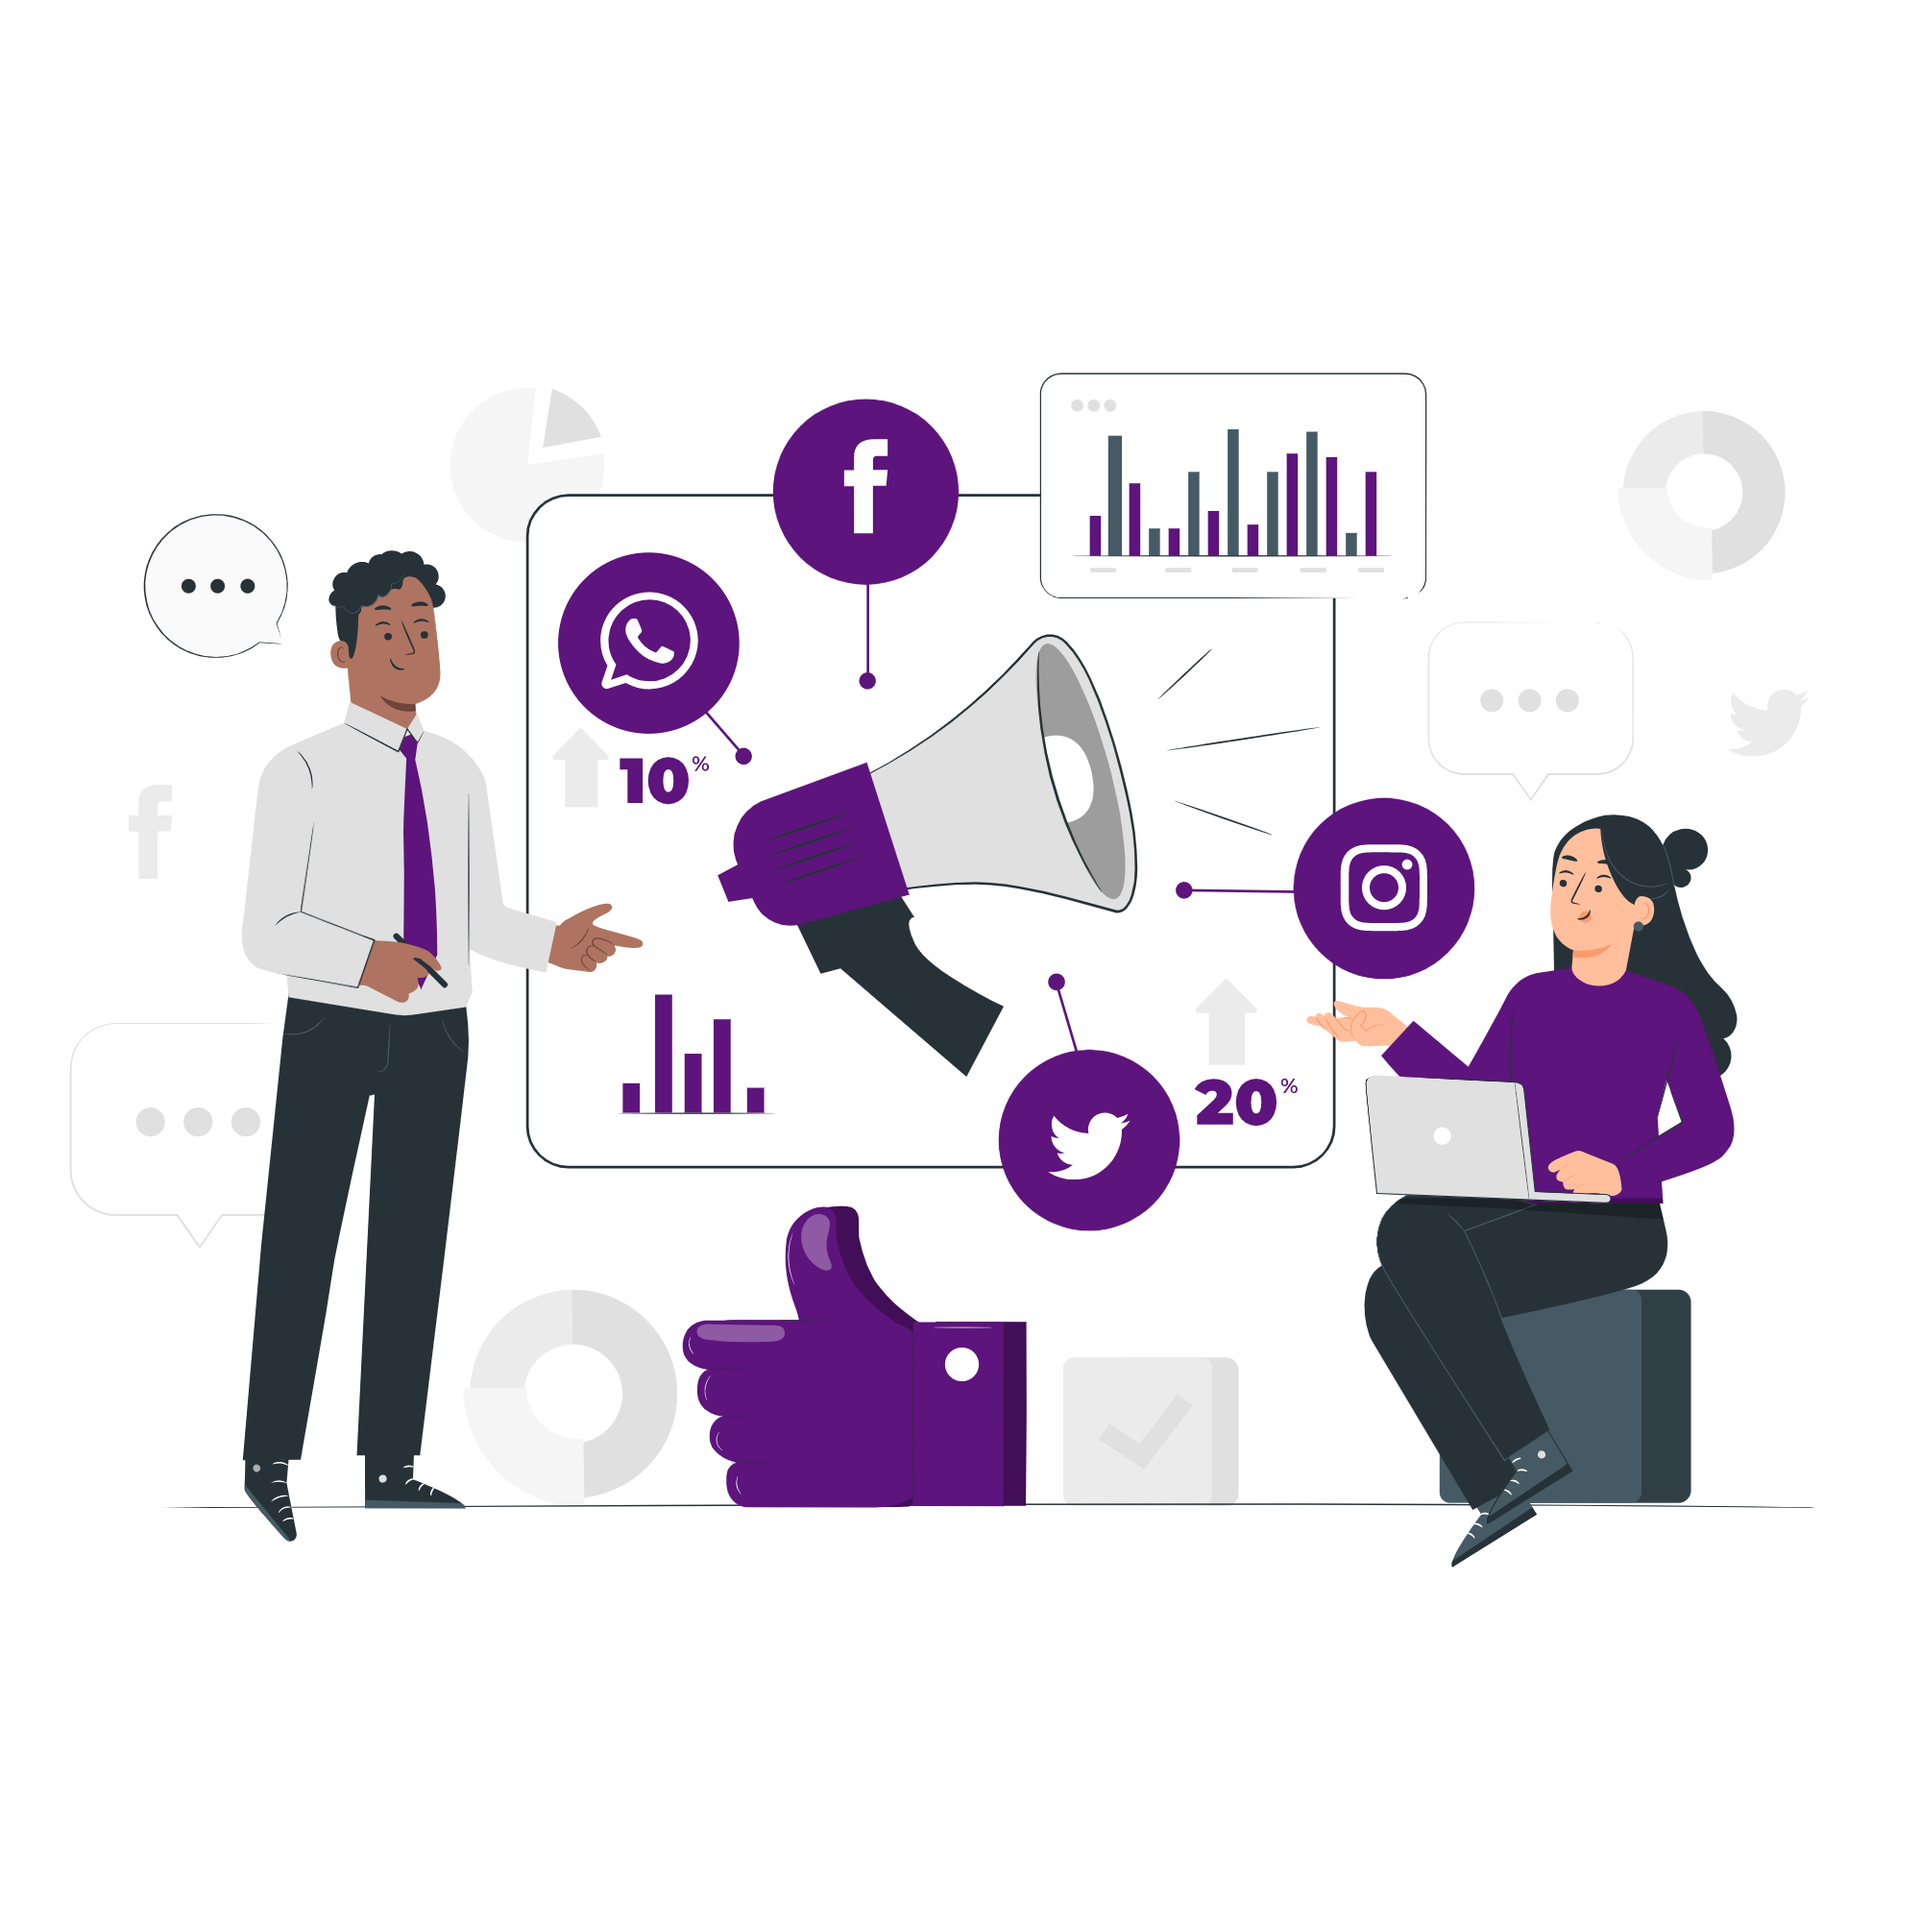
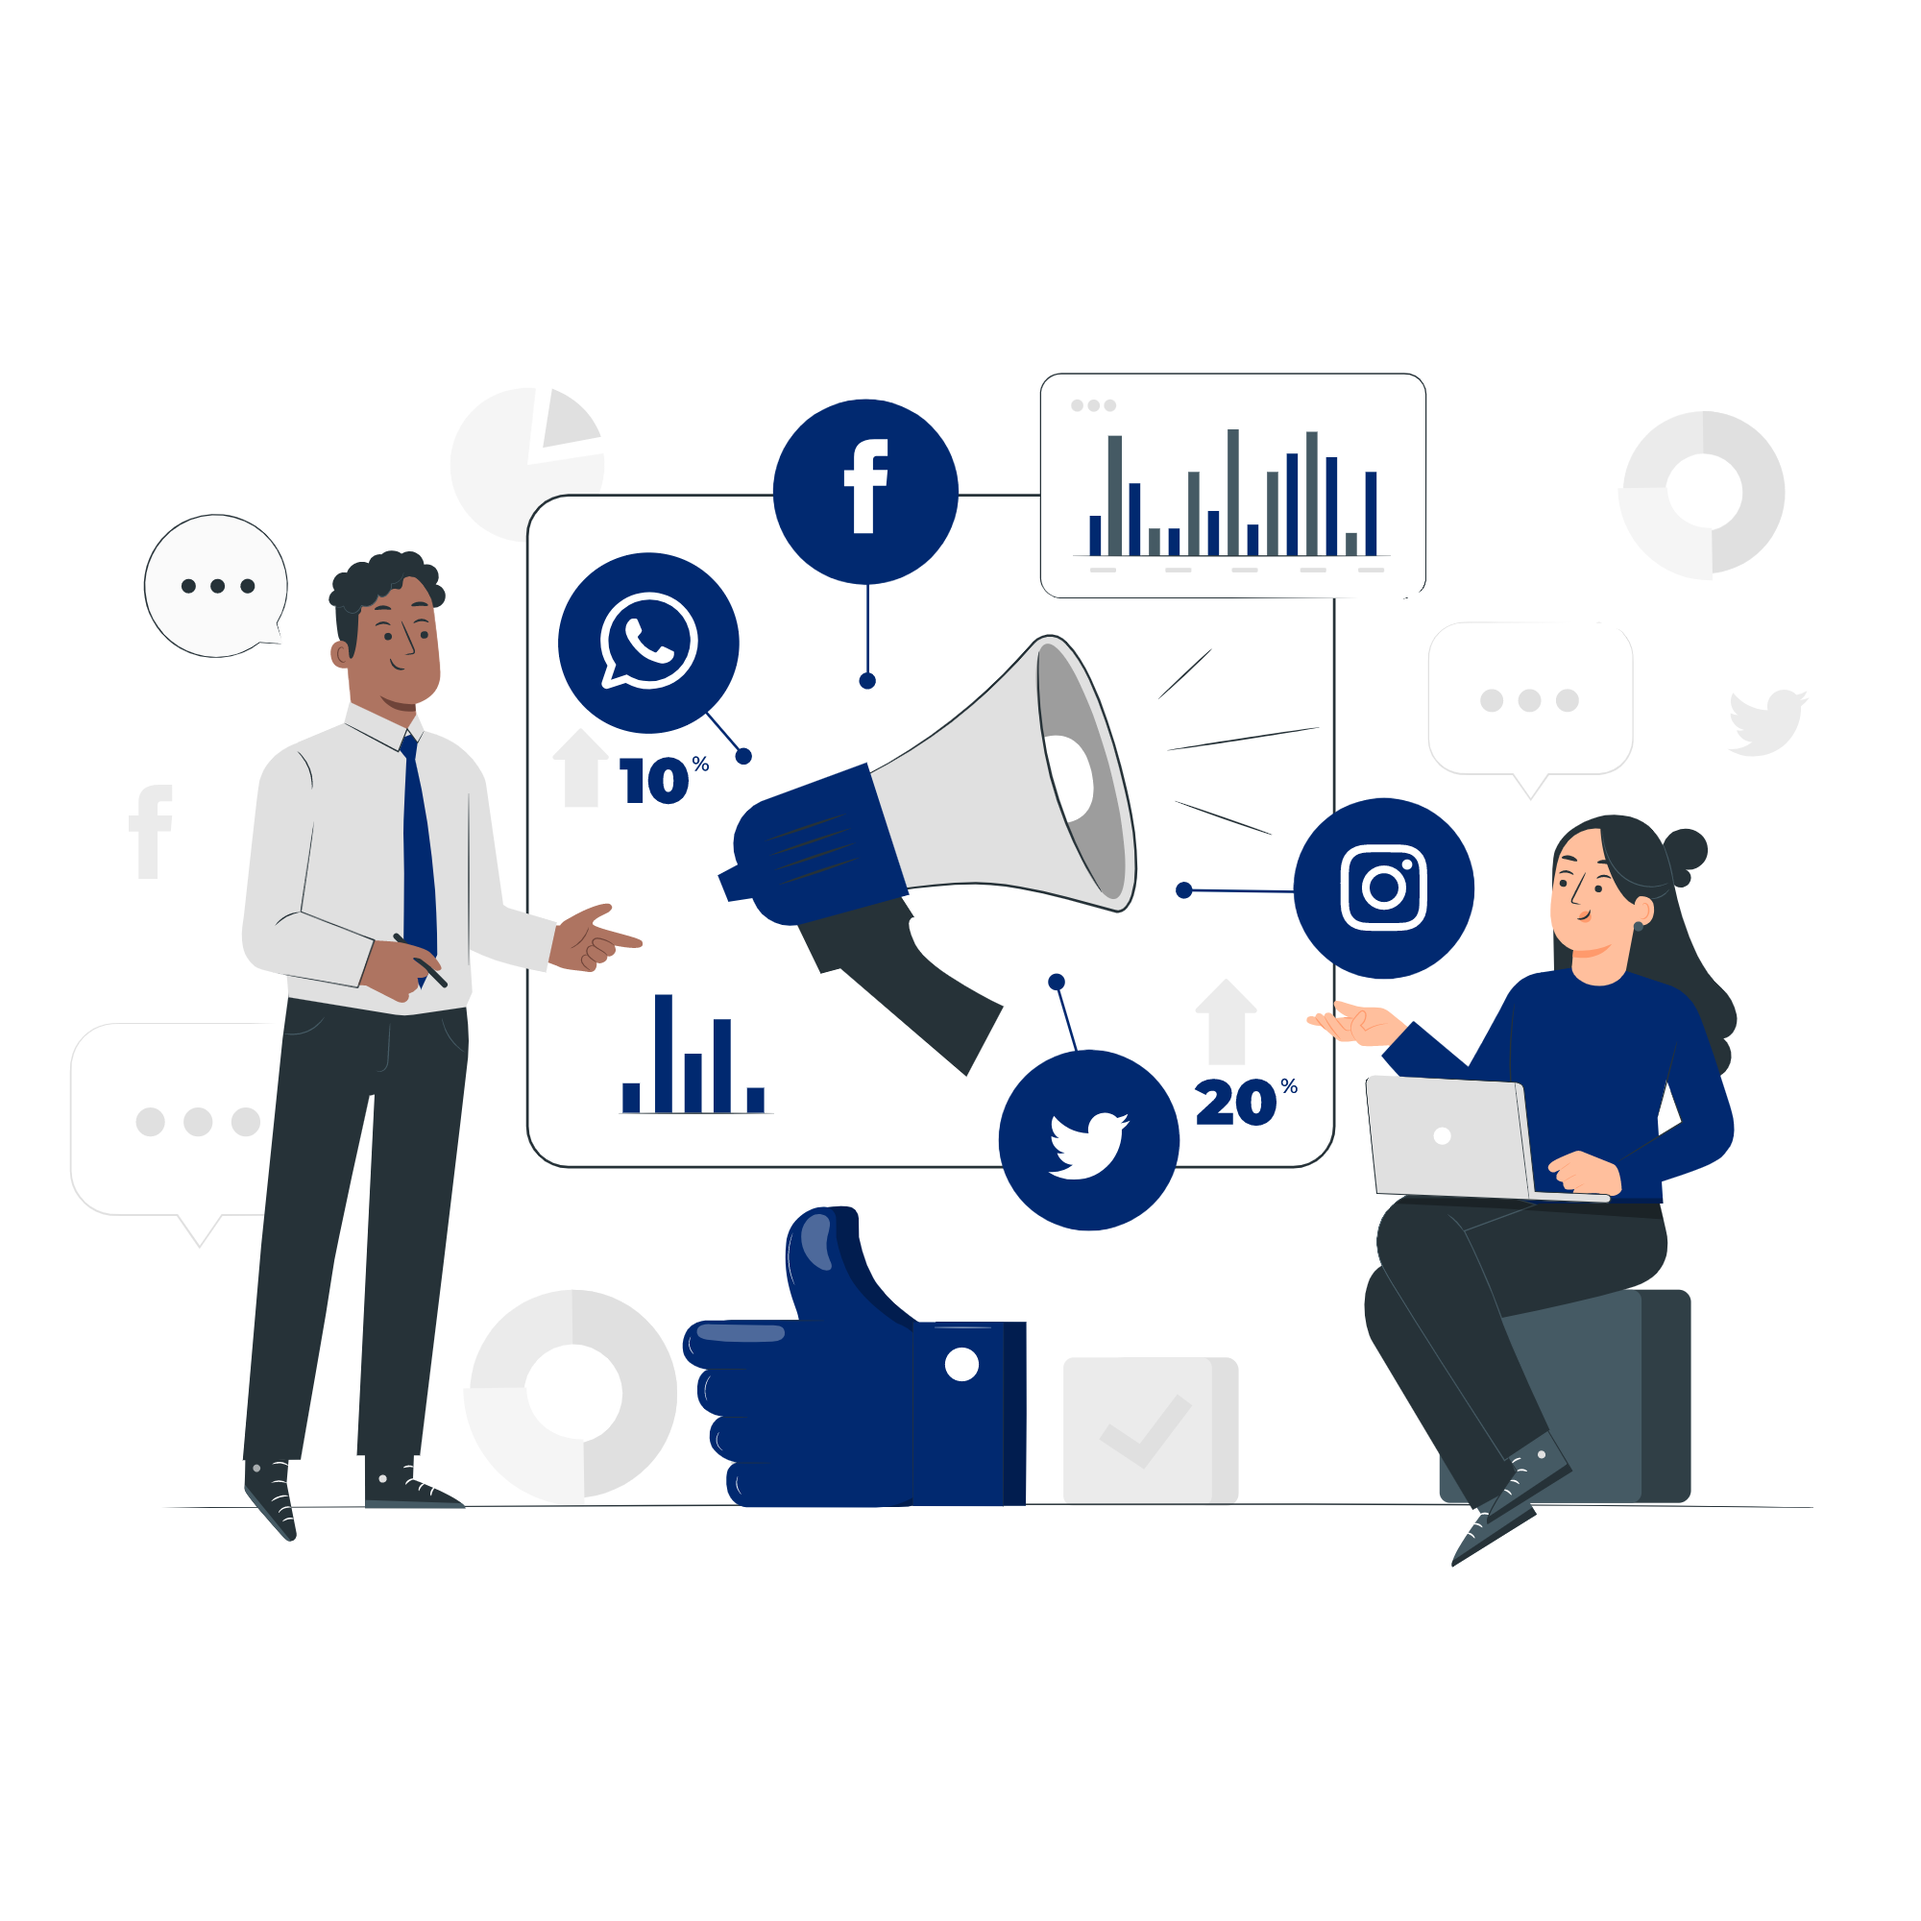
changed the dm and theme

diff --git a/index.html b/index.html
@@ -543,16 +543,16 @@
     </div>
     </div>
 
-    <div class="container">
+    <!-- <div class="container">
       <div class="copyright">
         &copy; Copyright <strong><span>FlexStart</span></strong>. All Rights Reserved
       </div>
-      <div class="credits">
+      <div class="credits"> -->
         <!-- All the links in the footer should remain intact. -->
         <!-- You can delete the links only if you purchased the pro version. -->
         <!-- Licensing information: https://bootstrapmade.com/license/ -->
         <!-- Purchase the pro version with working PHP/AJAX contact form: https://bootstrapmade.com/flexstart-bootstrap-startup-template/ -->
-        Designed by <a href="https://bootstrapmade.com/">BootstrapMade</a>
+        <!-- Designed by <a href="https://bootstrapmade.com/">diwsec</a> -->
       </div>
     </div>
   </footer><!-- End Footer -->

diff --git a/assets/css/style.css b/assets/css/style.css
@@ -195,7 +195,7 @@ section {
   font-size: 30px;
   font-weight: 700;
   letter-spacing: 1px;
-  color: #ffffff;
+  color: ##012970;
   font-family: "Nunito", sans-serif;
   margin-top: 3px;
 }
@@ -454,11 +454,11 @@ section {
   margin: 0;
   font-size: 48px;
   font-weight: 700;
-  color: #ffffff;
+  color: #012970;
 }
 
 .hero h2 {
-  color: #ffffff;
+  color: #012970;
   margin: 15px 0 0 0;
   font-size: 26px;
 }
@@ -470,7 +470,7 @@ section {
   border-radius: 4px;
   transition: 0.5s;
   color: #fff;
-  background: #EA1889;
+  background: #012970;
   box-shadow: 0px 5px 30px rgba(37, 43, 97, 0.4);
 }
 
